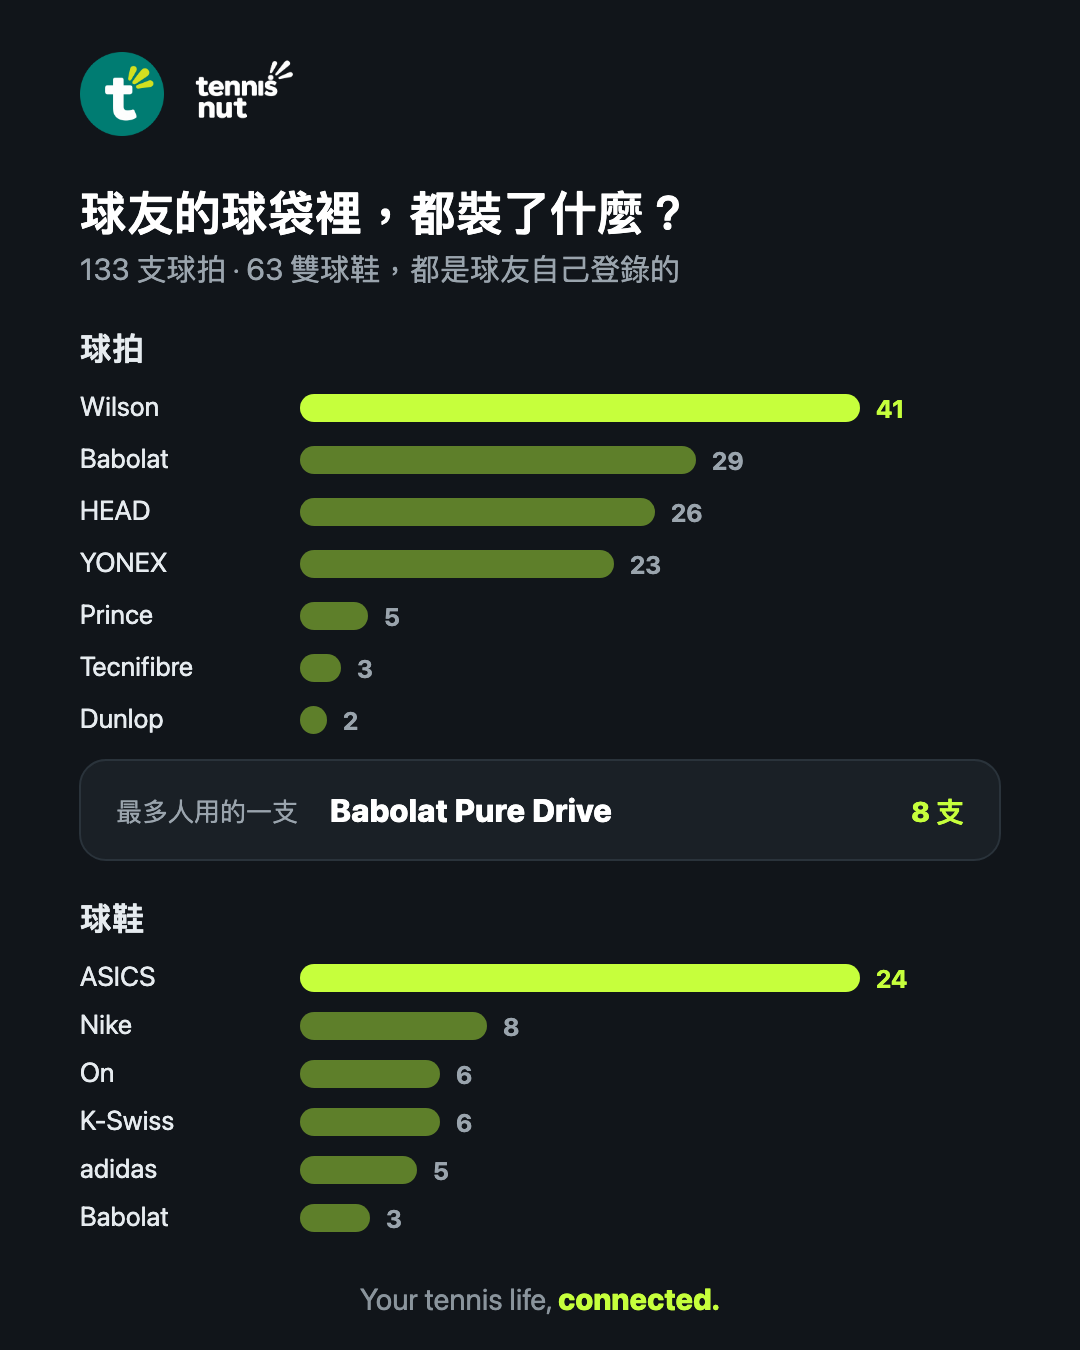
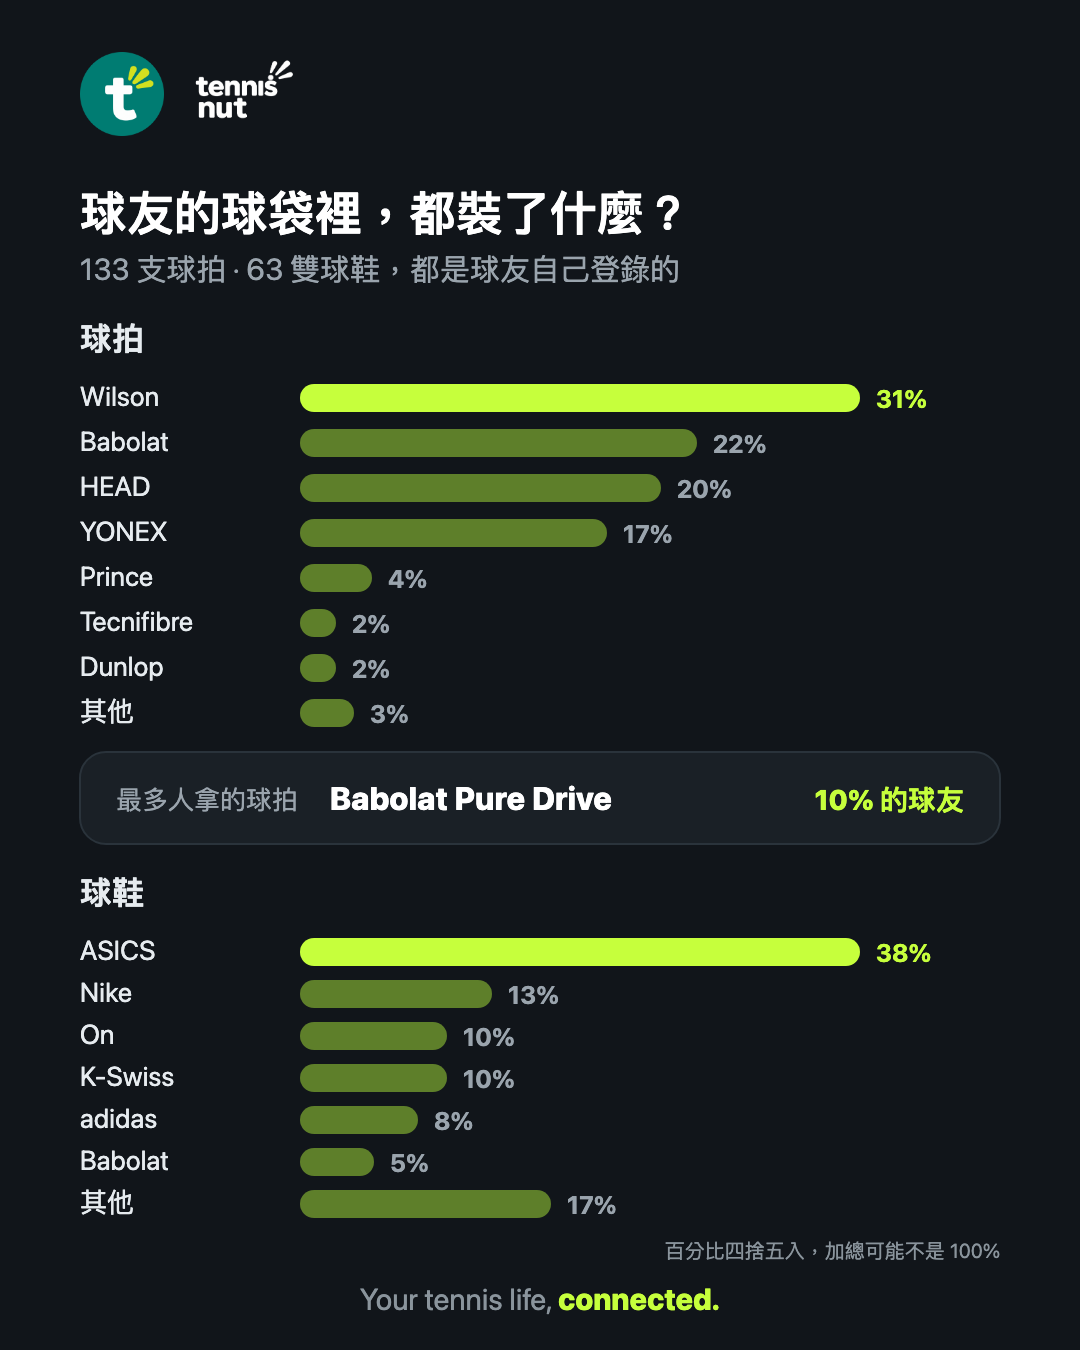
cards-ig-1010: 球袋卡改成百分比（含「其他」）；「最多人拿的球拍」依人數算

diff --git a/cards-ig-1010/build_gear.py b/cards-ig-1010/build_gear.py
@@ -4,23 +4,32 @@ T=DARK
 RACKETS=[('Wilson',41),('Babolat',29),('HEAD',26),('YONEX',23),('Prince',5),('Tecnifibre',3),('Dunlop',2)]
 SHOES=[('ASICS',24),('Nike',8),('On',6),('K-Swiss',6),('adidas',5),('Babolat',3)]
 NR,NS=133,63
-TOP=('Babolat Pure Drive',8)
+# 最多人拿的球拍：依人數算（同一人兩支只算一次），分母是有登錄球拍的 94 人。
+TOP=('Babolat Pure Drive',9); HOLDERS=94
+
+def pct(rows,total):
+    """佔全部的百分比，一般四捨五入：數量相同的就顯示相同的百分比，加總可能差 1%。
+    沒列出的品牌併成「其他」。"""
+    rows=rows+[('其他',total-sum(n for _,n in rows))]
+    return [(name,int(n*100/total+0.5)) for name,n in rows]
+RACKETS=pct(RACKETS,NR); SHOES=pct(SHOES,NS)
 o=head('球友的球袋裡，都裝了什麼？',f'{NR} 支球拍 · {NS} 雙球鞋，都是球友自己登錄的')
 def bars(y,title,rows,rowh):
     out=[f'<text x="80" y="{y}" font-size="32" font-weight="800" fill="{T["label"]}">{title}</text>']
-    mx=rows[0][1]; y+=26
+    mx=max(n for _,n in rows); y+=26
     for i,(name,n) in enumerate(rows):
         yy=y+i*rowh; w=max(8,round(560*n/mx))
         out.append(f'<text x="80" y="{yy+30}" font-size="27" fill="{T["label"]}">{name}</text>')
         out.append(f'<rect x="300" y="{yy+8}" width="{w}" height="28" rx="14" fill="{T["accent"] if i==0 else T["dim"]}"/>')
-        out.append(f'<text x="{300+w+16}" y="{yy+32}" font-size="25" font-weight="700" fill="{T["accent"] if i==0 else T["sub"]}">{n}</text>')
+        out.append(f'<text x="{300+w+16}" y="{yy+32}" font-size="25" font-weight="700" fill="{T["accent"] if i==0 else T["sub"]}">{n}%</text>')
     return out
-o+=bars(360,'球拍',RACKETS,52)
-y=760
-o.append(f'<rect x="80" y="{y}" width="920" height="100" rx="26" fill="{T["panel"]}" stroke="{T["edge"]}" stroke-width="2"/>')
-o.append(f'<text x="116" y="{y+61}" font-size="26" fill="{T["sub"]}">最多人用的一支</text>')
-o.append(f'<text x="330" y="{y+62}" font-size="32" font-weight="800" fill="{T["title"]}">{TOP[0]}</text>')
-o.append(f'<text x="964" y="{y+62}" font-size="28" font-weight="800" fill="{T["accent"]}" text-anchor="end">{TOP[1]} 支</text>')
-o+=bars(930,'球鞋',SHOES,48)
+o+=bars(350,'球拍',RACKETS,45)
+y=752
+o.append(f'<rect x="80" y="{y}" width="920" height="92" rx="26" fill="{T["panel"]}" stroke="{T["edge"]}" stroke-width="2"/>')
+o.append(f'<text x="116" y="{y+57}" font-size="26" fill="{T["sub"]}">最多人拿的球拍</text>')
+o.append(f'<text x="330" y="{y+58}" font-size="32" font-weight="800" fill="{T["title"]}">{TOP[0]}</text>')
+o.append(f'<text x="964" y="{y+58}" font-size="28" font-weight="800" fill="{T["accent"]}" text-anchor="end">{int(TOP[1]*100/HOLDERS+0.5)}% 的球友</text>')
+o+=bars(904,'球鞋',SHOES,42)
+o.append(f'<text x="1000" y="1258" font-size="20" fill="{T["foot"]}" text-anchor="end">百分比四捨五入，加總可能不是 100%</text>')
 o+=foot()
 open(os.path.join(HERE,'gear-bag.svg'),'w').write('\n'.join(o))
